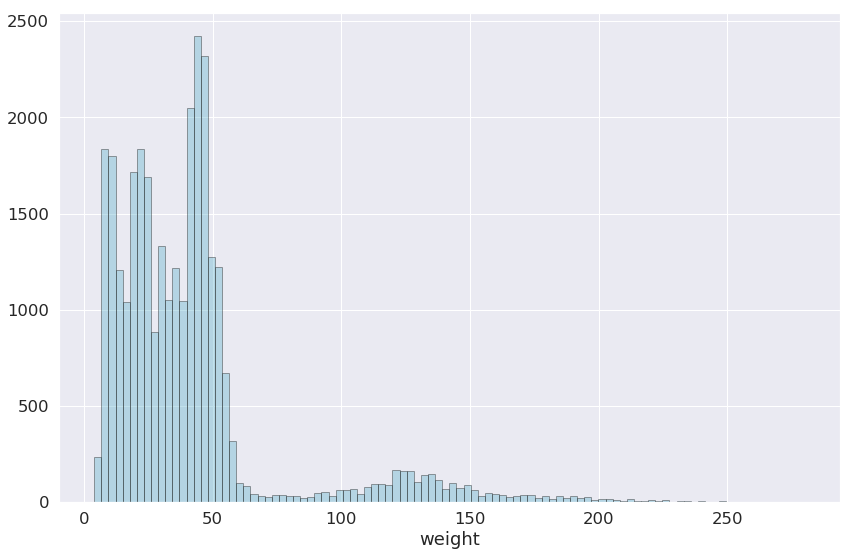
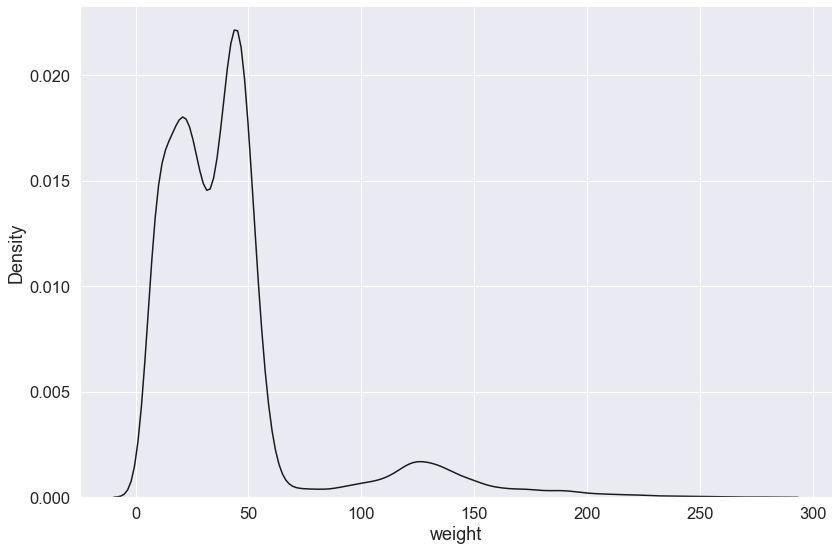
update

diff --git a/_episodes/05-seaborn-viz.md b/_episodes/05-seaborn-viz.md
@@ -63,7 +63,7 @@ surveys_complete = pd.read_csv('surveys_complete.csv', index_col=0)
 Let's start with a basic scatterplot. We'll simply plot the weight on the horizontal axis and the hind foot length on the vertical axis. This uses the seaborn function `.lmplot()`. This function can take a Pandas DataFrame directly. It also will fit a regression line, by default. Since we may not want to visualize these data with a regression line, we will use the `fit_reg=False` argument.
 
 ~~~
-sns.lmplot("weight", "hindfoot_length", data=surveys_complete, fit_reg=False)
+sns.lmplot(x="weight", y="hindfoot_length", data=surveys_complete, fit_reg=False)
 ~~~
 {: .python}
 
@@ -79,7 +79,7 @@ sns.set(font_scale=1.5)
 This will increase the font size of the labels by 50% in all of our subsequent plots.
 
 ~~~
-sns.lmplot("weight", "hindfoot_length", data=surveys_complete, fit_reg=False)
+sns.lmplot(x="weight", y="hindfoot_length", data=surveys_complete, fit_reg=False)
 ~~~
 {: .python}
 
@@ -90,7 +90,7 @@ The plot size is small, by default, and with seaborn, there isn't a way to chang
 For `.lmplot()`, we can set the plot size directly as arguments in the function call using the `size` and `aspect` arguments. These arguments control the height and width of the object, respectively.  
 
 ~~~
-sns.lmplot("weight", "hindfoot_length", data=surveys_complete, fit_reg=False, height=8, aspect=1.5)
+sns.lmplot(x="weight", y="hindfoot_length", data=surveys_complete, fit_reg=False, height=8, aspect=1.5)
 ~~~
 {: .python}
 
@@ -101,7 +101,7 @@ sns.lmplot("weight", "hindfoot_length", data=surveys_complete, fit_reg=False, he
 One issue with this plot is that because we have a large dataset, it is difficult to adequately visualize the points on our graph. This is called "[overplotting](https://python-graph-gallery.com/134-how-to-avoid-overplotting-with-python/)". One way to avoid this is to change the size of the marker. Here we use the argument `scatter_kws` that takes a _dictionary_ of keywords and values that are passed to the matplotlib `scatter` function.
 
 ~~~
-sns.lmplot("weight", "hindfoot_length", data=surveys_complete, fit_reg=False, height=8, aspect=1.5, scatter_kws={"s": 5})
+sns.lmplot(x="weight", y="hindfoot_length", data=surveys_complete, fit_reg=False, height=8, aspect=1.5, scatter_kws={"s": 5})
 ~~~
 {: .python}
 
@@ -110,7 +110,7 @@ sns.lmplot("weight", "hindfoot_length", data=surveys_complete, fit_reg=False, he
 Alternatively, we can change the marker type using the `markers` keyword argument. By default, `lmplot()` sets `markers='8'`. If we want to change the marker, we must use the correct [matplotlib code](https://matplotlib.org/examples/lines_bars_and_markers/marker_reference.html). Let's change the markers to X-es:
 
 ~~~
-sns.lmplot("weight", "hindfoot_length", data=surveys_complete, fit_reg=False, height=8, aspect=1.5, markers='x')
+sns.lmplot(x="weight", y="hindfoot_length", data=surveys_complete, fit_reg=False, height=8, aspect=1.5, markers='x')
 ~~~
 {: .python}
 
@@ -119,7 +119,7 @@ sns.lmplot("weight", "hindfoot_length", data=surveys_complete, fit_reg=False, he
 Another way to avoid overplotting is to use transparency so that regions of the plot with many points are darker. This is achieved using the `scatter_kws` argument and setting the alpha value. (This is using [alpha compositing](https://en.wikipedia.org/wiki/Alpha_compositing).)
 
 ~~~
-sns.lmplot("weight", "hindfoot_length", data=surveys_complete, fit_reg=False, height=8, aspect=1.5, scatter_kws={'alpha':0.3})
+sns.lmplot(x="weight", y="hindfoot_length", data=surveys_complete, fit_reg=False, height=8, aspect=1.5, scatter_kws={'alpha':0.3})
 ~~~
 {: .python}
 
@@ -131,8 +131,9 @@ sns.lmplot("weight", "hindfoot_length", data=surveys_complete, fit_reg=False, he
 We can also specify that the `species_id` labels indicate categories that determine a point's color:
 
 ~~~
-sns.lmplot("weight", "hindfoot_length", data=surveys_complete, fit_reg=False, height=8,
-           aspect=1.5, scatter_kws={'alpha':0.3,"s": 50}, hue='species_id', markers='D')
+sns.lmplot(x="weight", y="hindfoot_length", data=surveys_complete, 
+           fit_reg=False, height=8, aspect=1.5, scatter_kws={'alpha':0.3,"s": 50}, 
+           hue='species_id', markers='D')
 ~~~
 {: .python}
 
@@ -145,8 +146,10 @@ sns.lmplot("weight", "hindfoot_length", data=surveys_complete, fit_reg=False, he
 There are different ways to set figure properties using seaborn. For `.lmplot()`, we can create a figure variable and use a member method of tat variable to set the axis labels. 
 
 ~~~
-my_fig = sns.lmplot("weight", "hindfoot_length", data=surveys_complete, fit_reg=False, height=8, 
-                    aspect=1.5, scatter_kws={'alpha':0.3,"s": 50}, hue='species_id', markers='D')
+my_fig = sns.lmplot(x="weight", y="hindfoot_length", data=surveys_complete, 
+                    fit_reg=False, height=8, aspect=1.5, 
+                    scatter_kws={'alpha':0.3,"s": 50}, 
+                    hue='species_id', markers='D')
 my_fig.set_axis_labels('Weight (g)', 'Hindfoot Length (mm)')
 ~~~
 {: .python}
@@ -165,8 +168,10 @@ my_fig.set_axis_labels('Weight (g)', 'Hindfoot Length (mm)')
 > > ## Solution
 > > 
 > > ~~~
-> > my_fig = sns.lmplot("weight", "hindfoot_length", data=surveys_complete[surveys_complete.plot_id == 12], 
-                    fit_reg=False, height=8, aspect=1.5, scatter_kws={'alpha':0.3,"s": 200}, 
+> > my_fig = sns.lmplot(x="weight", y="hindfoot_length", 
+                    data=surveys_complete[surveys_complete.plot_id == 12], 
+                    fit_reg=False, height=8, aspect=1.5, 
+                    scatter_kws={'alpha':0.3,"s": 200}, 
                     hue='sex', markers='8')
 my_fig.set_axis_labels('Weight (g)', 'Hindfoot Length (mm)')
 > > ~~~
@@ -196,7 +201,7 @@ Now, every time we create a new plot that returns a matplotlib Axes object, we c
 
 ~~~
 fig, ax = plt.subplots(figsize=plot_dims)
-sns.boxplot('species_id','hindfoot_length', data=surveys_complete)
+sns.boxplot(x='species_id', y='hindfoot_length', data=surveys_complete)
 ax.set(xlabel='Species ID', ylabel='Hindfoot Length (mm)')
 ~~~
 {: .python}
@@ -210,8 +215,9 @@ An easy way to do this is to create a new graph variable from our `.violinplot()
 
 ~~~
 fig, ax = plt.subplots(figsize=plot_dims)
-g = sns.violinplot('weight','species_id', data=surveys_complete, linewidth=0.2, orient="h", cut=0)
-g.set_xscale('log', basex=10)
+g = sns.violinplot(x='weight', y='species_id', data=surveys_complete, 
+                   linewidth=0.2, orient="h", cut=0)
+g.set_xscale('log', base=10)
 ax.set(ylabel='Species ID', xlabel='Weight (g)')
 ~~~
 {: .python}
@@ -228,7 +234,7 @@ ax.set(ylabel='Species ID', xlabel='Weight (g)')
 > > 
 > > ~~~
 > > fig, ax = plt.subplots(figsize=plot_dims)
-sns.violinplot(x = 'sex', y = 'weight', data=surveys_complete[surveys_complete.species_id == 'OL'])
+sns.violinplot(x='sex', y='weight', data=surveys_complete[surveys_complete.species_id == 'OL'])
 > > ~~~
 > > {: .python}
 > > 
@@ -238,21 +244,21 @@ sns.violinplot(x = 'sex', y = 'weight', data=surveys_complete[surveys_complete.s
 
 # Histograms
 
-Often, a histogram is a better way to visualize a distribution. This is relatively simple using seaborn's `.distplot()` function. This function does not take a Pandas DataFrame, but can take a Pandas Series (i.e., column in our DataFrame). This function also can take come other arguments like `color`, which takes values that specify the color of histogram based on [matplotlib's colors](https://matplotlib.org/api/colors_api.html). We will make our plot cyan using the `'c'` color code.
+Often, a histogram is a better way to visualize a distribution. This is relatively simple using seaborn's `.displot()` function. This function does not take a Pandas DataFrame, but can take a Pandas Series (i.e., column in our DataFrame). This function also can take come other arguments like `color`, which takes values that specify the color of histogram based on [matplotlib's colors](https://matplotlib.org/api/colors_api.html). We will make our plot cyan using the `'c'` color code. Additionally, we will specify `bins=50` so that our histogram is not plotted using too many or too few bins.
 
 ~~~
-fig, ax = plt.subplots(figsize=plot_dims)
-sns.distplot(surveys_complete['weight'], color='c')
+sns.displot(surveys_complete['weight'], color='c',bins=50, 
+            height=8, aspect=1.5)
 ~~~
 {: .python}
 
 ![png](../fig/05-seaborn-distplot-1.png)
 
-By default, the `.distplot()` function plots the histogram as a density plot with the kernel density estimate overlaid as a darker line on the graph. This may not be necessary and we may instead want the vertical axis to represent the counts in each bin. We can further adjust the appearance of the histogram to make the bars more apparent and increase the number of bins.
+By default, the `.displot()` function plots the density as a histogram, alternatively, you can plot a kernel density estimate by setting the `kind` argument to `kind="kde"` (the default is `kind="hist"`) and removing the `bins` argument.
 
 ~~~
-fig, ax = plt.subplots(figsize=plot_dims)
-sns.distplot(surveys_complete['weight'], kde=False, color='c', hist_kws=dict(edgecolor="k", linewidth=1), bins=100)
+sns.displot(surveys_complete['weight'], color='k', kind="kde", 
+            height=8, aspect=1.5)
 ~~~
 {: .python}
 
@@ -322,7 +328,23 @@ out.close()
 ~~~
 {: .python}
 
-## Comparing densities in bokeh using ridgeline plots
+If you open the file you created in your web browser, you now have an interactive version of your figure. You can then use this to embed in a website.
+
+> ## Take-Home Challenge: More Visualizations in Python
+>
+> Continue to use `seaborn` and `bokeh` to try out different visualizations. 
+>
+> 1. Produce a histogram of the hindfoot length for only the species observed in the genus _Peromyscus_. Note that this particular dataset includes a column called `"genus"`. So you can subset out only the entries for _Peromyscus_ individuals. Try making the histogram using both `seaborn` and `bokeh`. Consider altering the bin numbers to help visualize the distribution. 
+>
+> 2. This dataset also has a column called `"plot_type"`. That says what kind of plot in which the animal was captured. The different plot types are specific experimental set-ups for this kind of study. Create a visualization that helps us better understand how the species (`"species_id"`) might be influenced by the plot type. For example, are some species prevented from entering certain plot types? 
+>
+> > ## Solutions
+> >
+> > The solutions will be posted in 4 days. Feel free to use the `#scripting_help` channel in Slack to discuss these exercises. 
+> {: .solution}
+{: .challenge}
+
+<!-- ## Comparing densities in bokeh using ridgeline plots
 
 A cool way of visualizing multiple histograms is to use what is called a "ridgeline" plot. There is a nice package in R called [`ggridges`](https://github.com/clauswilke/ggridges) that allows you to create these plot. Here is the additional code needed to make this plot using bokeh in Python. (To get this to work, you must first install the package `colorcet` using: `conda install colorcet`.)
 
@@ -355,7 +377,7 @@ show(ridgeline)
 {: .python}
 
 {% include weight_ridgeline_bokeh.html %}
-
+ -->
 
 
 <!-- 
